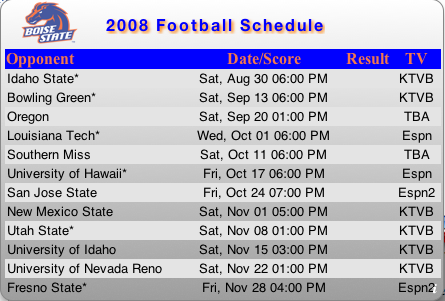
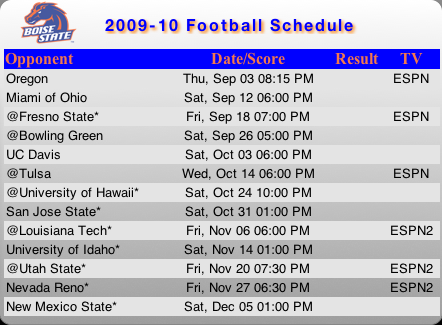
adding tba functionality for games, updating the widget

diff --git a/db/schema.rb b/db/schema.rb
@@ -9,7 +9,7 @@
 #
 # It's strongly recommended to check this file into your version control system.
 
-ActiveRecord::Schema.define(:version => 20090704193551) do
+ActiveRecord::Schema.define(:version => 20090806010812) do
 
   create_table "bowls", :force => true do |t|
     t.string "name"
@@ -46,6 +46,7 @@ ActiveRecord::Schema.define(:version => 20090704193551) do
     t.string   "media"
     t.boolean  "complete",                  :default => false
     t.string   "vegas_line"
+    t.boolean  "tba",                       :default => false
   end
 
   add_index "games", ["week_id", "home_team_id", "visitor_team_id"], :name => "index_games_on_week_id_and_home_team_id_and_visitor_team_id", :unique => true

diff --git a/app/controllers/syndication_controller.rb b/app/controllers/syndication_controller.rb
@@ -57,7 +57,11 @@ class SyndicationController < ApplicationController
           score = "#{game.visitor_score} - #{game.home_score}"
           result = game.visitor_score > game.home_score ? "W" : "L"
         else
-          score = score = game.game_time.to_s(:day) + ' ' + game.game_time.to_s(:time) unless game.game_time.nil?
+          if game.tba?
+            score = score = game.game_time.to_s(:day) + ' ' + 'TBA' unless game.game_time.nil?
+          else
+            score = score = game.game_time.to_s(:day) + ' ' + game.game_time.to_s(:time) unless game.game_time.nil?
+          end
           result = " "
         end
         

diff --git a/db/migrate/20090806010812_add_tba_flag.rb b/db/migrate/20090806010812_add_tba_flag.rb
@@ -1,0 +1,9 @@
+class AddTbaFlag < ActiveRecord::Migration
+  def self.up
+    add_column :games, :tba, :boolean, :default => false
+  end
+
+  def self.down
+    remove_column :games, :tba
+  end
+end
